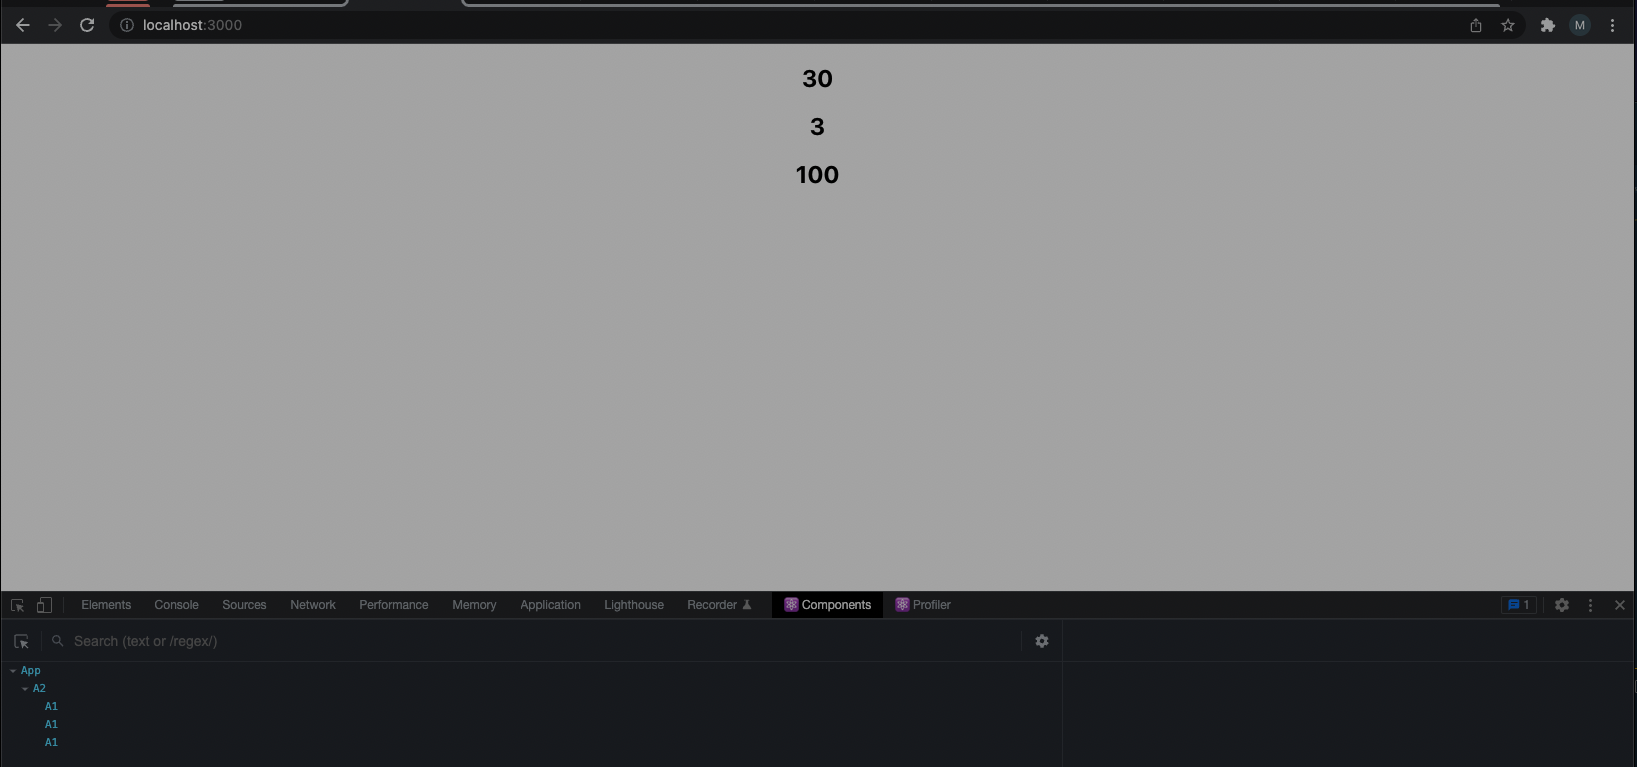
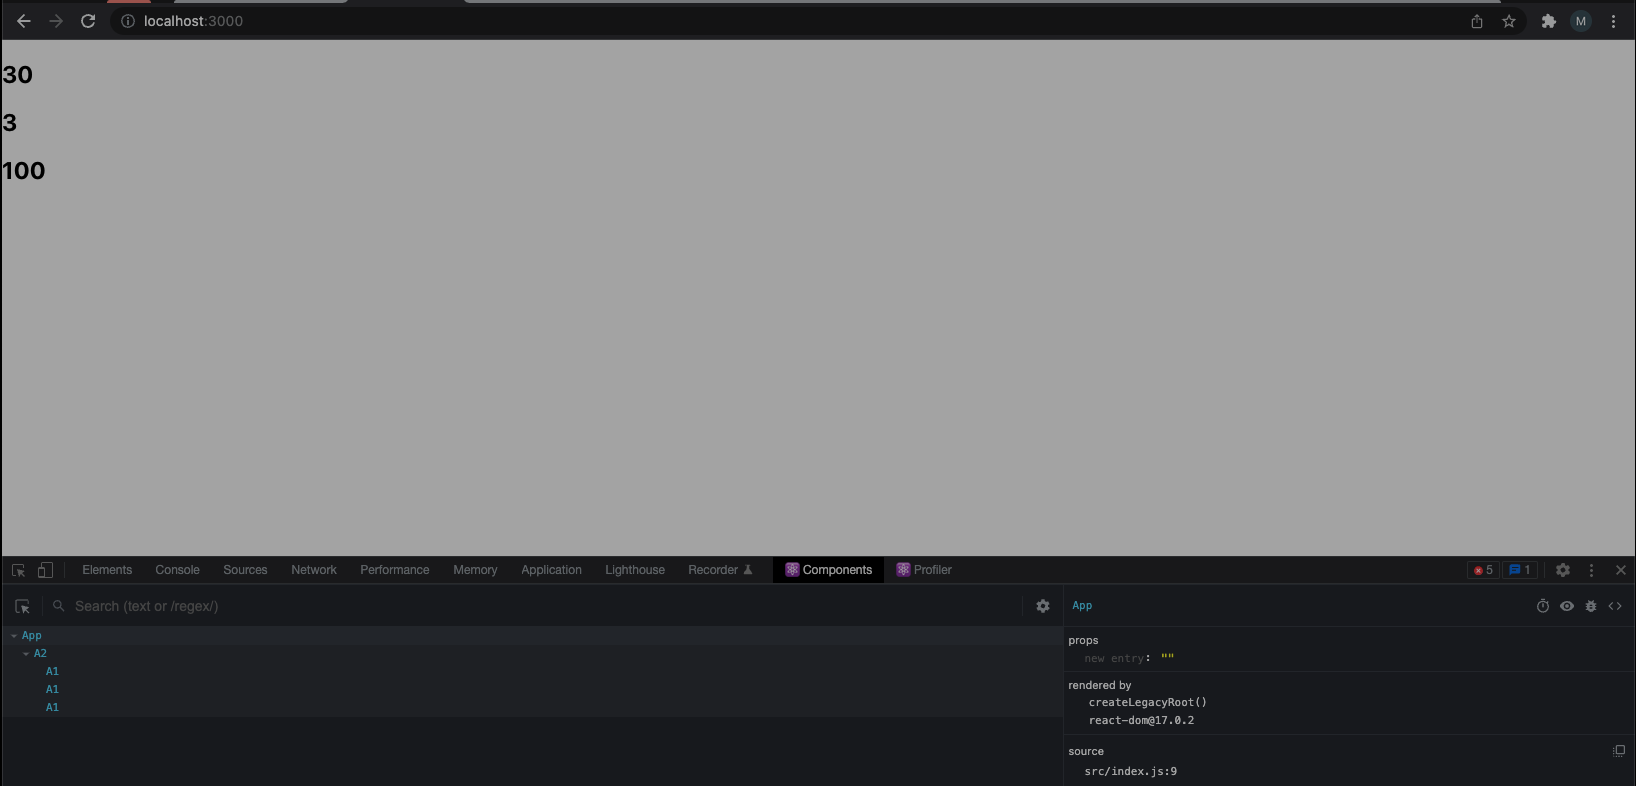
removed center tag from A1 file

diff --git a/src/components/A1.js b/src/components/A1.js
@@ -12,10 +12,10 @@ export default function A1(props){
     }
 
     return(
-        <center>
+
             <h2>
                 {computeGreater(props.a,props.b,props.c)}
             </h2>
-        </center>
+
     );
 }
